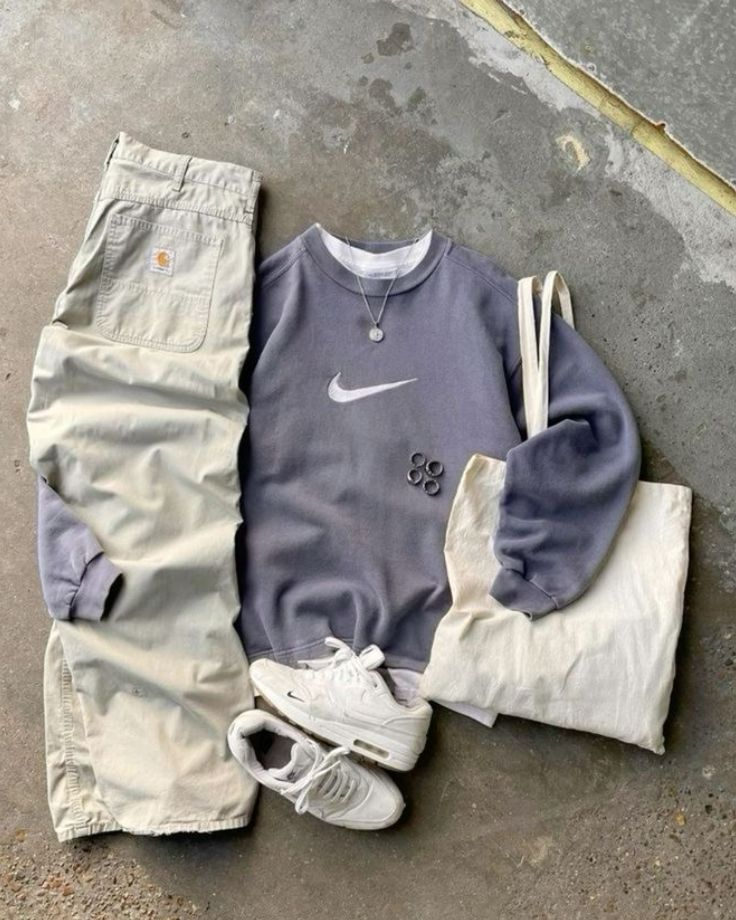
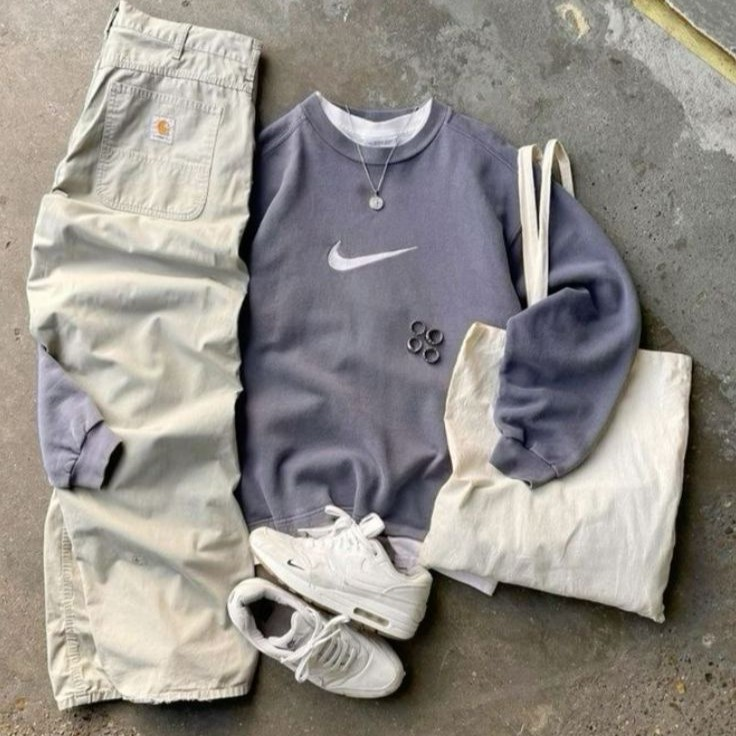
General Update
-Se modifican las imágenes a formatos 4:4
-Se agrega la calse ClosetGroup que permite separar lis ítems por grupos de imágenes
-Se modifica my_closet y world_closets con funciones más identitarias entre ambas

diff --git a/flutter_myclosetapp/lib/pages/my_closet.dart b/flutter_myclosetapp/lib/pages/my_closet.dart
@@ -10,15 +10,29 @@ class MyClosetPage extends StatefulWidget {
 }
 
 class _MyClosetPageState extends State<MyClosetPage> {
-  final List<ClosetItem> items = const [
-    ClosetItem(name: "Chaqueta", imagePath: "assets/chaqueta.png"),
-    ClosetItem(name: "Zapatos", imagePath: "assets/zapatos.png"),
-    ClosetItem(name: "Pantalón", imagePath: "assets/pantalon.png"),
-    ClosetItem(name: "Sombrero", imagePath: "assets/sombrero.png"),
-    ClosetItem(name: "Bufanda", imagePath: "assets/bufanda.png"),
-    ClosetItem(name: "Botas", imagePath: "assets/botas.png"),
-    ClosetItem(name: "Camisa", imagePath: "assets/camisa.png"),
-    ClosetItem(name: "Lentes", imagePath: "assets/lentes.png"),
+  final List<ClosetGroup> closetGroups = const [
+    ClosetGroup(
+      groupName: "Parte Superior",
+      items: [
+        ClosetItem(name: "Chaqueta", imagePath: "assets/chaqueta.png"),
+        ClosetItem(name: "Camisa", imagePath: "assets/camisa.png"),
+      ],
+    ),
+    ClosetGroup(
+      groupName: "Parte Inferior",
+      items: [
+        ClosetItem(name: "Pantalón", imagePath: "assets/pantalon.png"),
+        ClosetItem(name: "Botas", imagePath: "assets/botas.png"),
+        ClosetItem(name: "Zapatillas", imagePath: "assets/zapatos.png"),
+      ],
+    ),
+    ClosetGroup(
+      groupName: "Accesorios",
+      items: [
+        ClosetItem(name: "Gorro", imagePath: "assets/sombrero.png"),
+        ClosetItem(name: "Lentes", imagePath: "assets/lentes.png"),
+      ],
+    ),
   ];
 
   @override
@@ -26,13 +40,34 @@ class _MyClosetPageState extends State<MyClosetPage> {
     return Scaffold(
       appBar: AppBar(title: const Text('My Closet')),
       body: ListView.builder(
-        itemCount: items.length,
-        itemBuilder: (context, index) {
-          return Card(
-            child: ListTile(
-              leading: Image.asset(items[index].imagePath, width: 50),
-              title: Text(items[index].name),
-            ),
+        itemCount: closetGroups.length,
+        itemBuilder: (context, groupIndex) {
+          final group = closetGroups[groupIndex];
+          return Column(
+            crossAxisAlignment: CrossAxisAlignment.start,
+            children: [
+              Padding(
+                padding: const EdgeInsets.all(12.0),
+                child: Text(
+                  group.groupName,
+                  style: const TextStyle(fontSize: 18, fontWeight: FontWeight.bold),
+                ),
+              ),
+              ListView.builder(
+                physics: const NeverScrollableScrollPhysics(), // evita conflicto de scroll
+                shrinkWrap: true,
+                itemCount: group.items.length,
+                itemBuilder: (context, itemIndex) {
+                  final item = group.items[itemIndex];
+                  return Card(
+                    child: ListTile(
+                      leading: Image.asset(item.imagePath, width: 50),
+                      title: Text(item.name),
+                    ),
+                  );
+                },
+              ),
+            ],
           );
         },
       ),

diff --git a/flutter_myclosetapp/lib/pages/world_closets.dart b/flutter_myclosetapp/lib/pages/world_closets.dart
@@ -5,12 +5,13 @@ class WorldClosetsPage extends StatelessWidget {
   const WorldClosetsPage({super.key,  required this.title});
 
   final List<ClosetItem> items = const [
-    ClosetItem(name: "Anthony.S Closet", imagePath: "assets/outfit1.jpg"),
-    ClosetItem(name: "Marcus.B Closet", imagePath: "assets/outfit2.jpg"),
-    ClosetItem(name: "Jeremy.C Closet", imagePath: "assets/outfit3.jpg"),
-    ClosetItem(name: "Leon Closet", imagePath: "assets/outfit4.jpg"),
-    ClosetItem(name: "James.B Closet", imagePath: "assets/outfit5.jpg"),
+    ClosetItem(name: "Closet #1\nUser: @PabloC5", imagePath: "assets/outfit1.jpg"),
+    ClosetItem(name: "Closet #2\nUser: @YZYreff", imagePath: "assets/outfit2.jpg"),
+    ClosetItem(name: "Closet #3\nUser: @Ch4mp4gn3PPI", imagePath: "assets/outfit3.jpg"),
+    ClosetItem(name: "Closet #4\nUser: @quav0hunch0", imagePath: "assets/outfit4.jpg"),
+    ClosetItem(name: "Closet #5\nUser: @CUDIb0ss", imagePath: "assets/outfit5.jpg"),
   ];
+  
 
   final String title;
   @override
@@ -18,12 +19,30 @@ class WorldClosetsPage extends StatelessWidget {
     return Scaffold(
       appBar: AppBar(title: const Text('World Closets')),
       body: ListView.builder(
+        padding: const EdgeInsets.symmetric(vertical: 16),
         itemCount: items.length,
         itemBuilder: (context, index) {
-          return Card(
-            child: ListTile(
-              leading: Image.asset(items[index].imagePath, width: 50),
-              title: Text(items[index].name),
+          final item = items[index];
+          return Padding(
+            padding: const EdgeInsets.symmetric(vertical: 10, horizontal: 10),
+            child: Column(
+              children: [
+                Image.asset(
+                  item.imagePath,
+                  width: 300,
+                  height: 300,
+                  fit: BoxFit.contain,
+                ),
+                const SizedBox(height: 8),
+                Text(
+                  item.name,
+                  style: const TextStyle(
+                    fontSize: 20,
+                    fontWeight: FontWeight.bold,
+                  ),
+                ),
+                const Divider(height: 30),
+              ],
             ),
           );
         },

diff --git a/flutter_myclosetapp/lib/pages/closet_items.dart b/flutter_myclosetapp/lib/pages/closet_items.dart
@@ -4,3 +4,10 @@ class ClosetItem {
 
   const ClosetItem({required this.name, required this.imagePath});
 }
+
+class ClosetGroup {
+  final String groupName;
+  final List<ClosetItem> items;
+
+  const ClosetGroup({required this.groupName, required this.items});
+}
